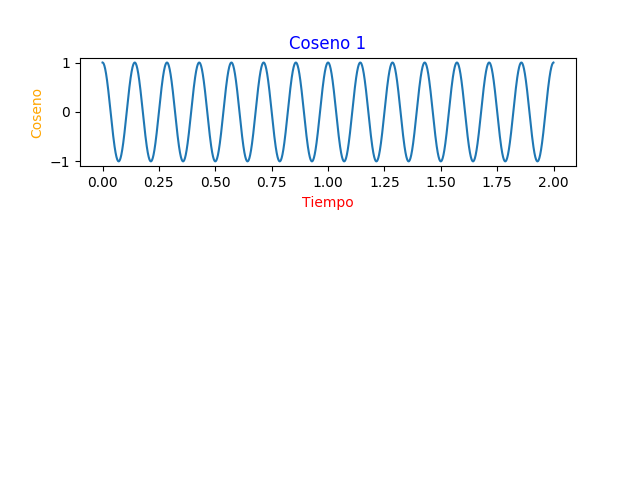
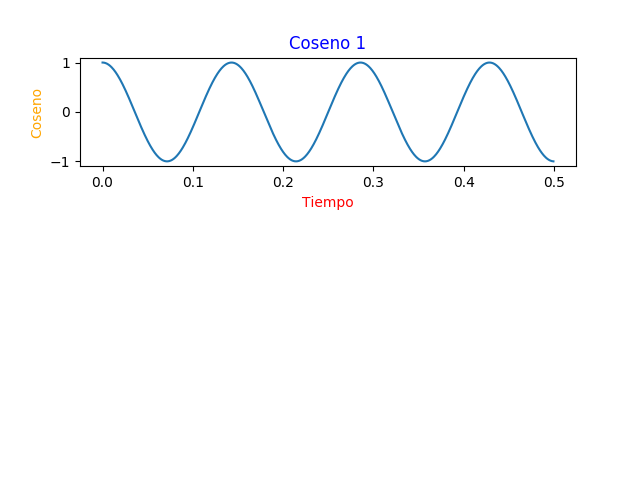
adding Fm modulation

Changed region(s): [[0.125, 0.125, 0.9062, 0.4062], [0.5, 0.3438, 0.5312, 0.4062]]

diff --git a/Models/graphic.py b/Models/graphic.py
@@ -30,7 +30,7 @@ class Graphic:
         plt.plot(xdata, ydata)#, "*-")
         plt.savefig( os.getcwd() + "/Salida/" + title + "_" + str(low_cutoff) + "_" + str(order) + ".png")
         print("Aca")
-        plt.show()
+        #plt.show()
 
 
     #//////////////////////////////////////////////////////////////////////////////////////////////////////////////////////////////////////////////////////////////////////////
@@ -62,7 +62,7 @@ class Graphic:
         # Funcion que retorna los resultados aplicando fourier y crea una matriz con el resultado
         fftFrequency = np.fft.fftfreq(sample_length, 1 / samplingRate)
         self.makeGraphic("Sonido: " + audioName + " aplicando T.Fourier", "Frecuencia [Hz]", fftFrequency, "Amplitud [dB]", abs(new_data),low_cutoff,order)
-        plt.show()
+        #plt.show()
         return new_data, fft(data)
 
     # /////////////////////////////////////////////////////////////////////////////////////////////////////////////////////////////////////////////////////////////////////////

diff --git a/Models/modulation.py b/Models/modulation.py
@@ -103,9 +103,18 @@ class Modulation:
 
         phase = k * (integrate.cumtrapz(modulating_signal, modulation.time, initial=0))
         print(phase)
-
         modulated_signal = np.cos( (2 * np.pi * fc * modulation.time) + phase)
-        plt.plot(modulation.time, modulated_signal, linewidth = 2)
+
+        graphic.generateGraphics4(modulating_signal, modulating_signal, modulated_signal, modulation.time)
+        graphic.generateGraphics5(modulating_signal, modulation.freqSampling, modulating_signal,
+                                  modulation.freqSampling, modulated_signal, modulation.time)
+
+        plt.subplot(311)
+        plt.plot(modulation.time, modulating_signal, linewidth=1)
+        plt.title("senal")
+        plt.subplot(312)
+        plt.plot(modulation.time, modulated_signal, linewidth = 1)
+        plt.title("Resultado")
         plt.show()
 
 

diff --git a/Avance1.py b/Avance1.py
@@ -157,7 +157,8 @@ def digitalCodingAndModulation():
         elif choice == "3":
             print("Realizando modulacion FM")
             modulation = Modulation(0, 0)
-            modulation.fmModulation(7, 100, 50)
+            modulation.fmModulation(7, 100, 200)
+
             input("Presiona Enter para continuar")
 
         elif choice == "4":
